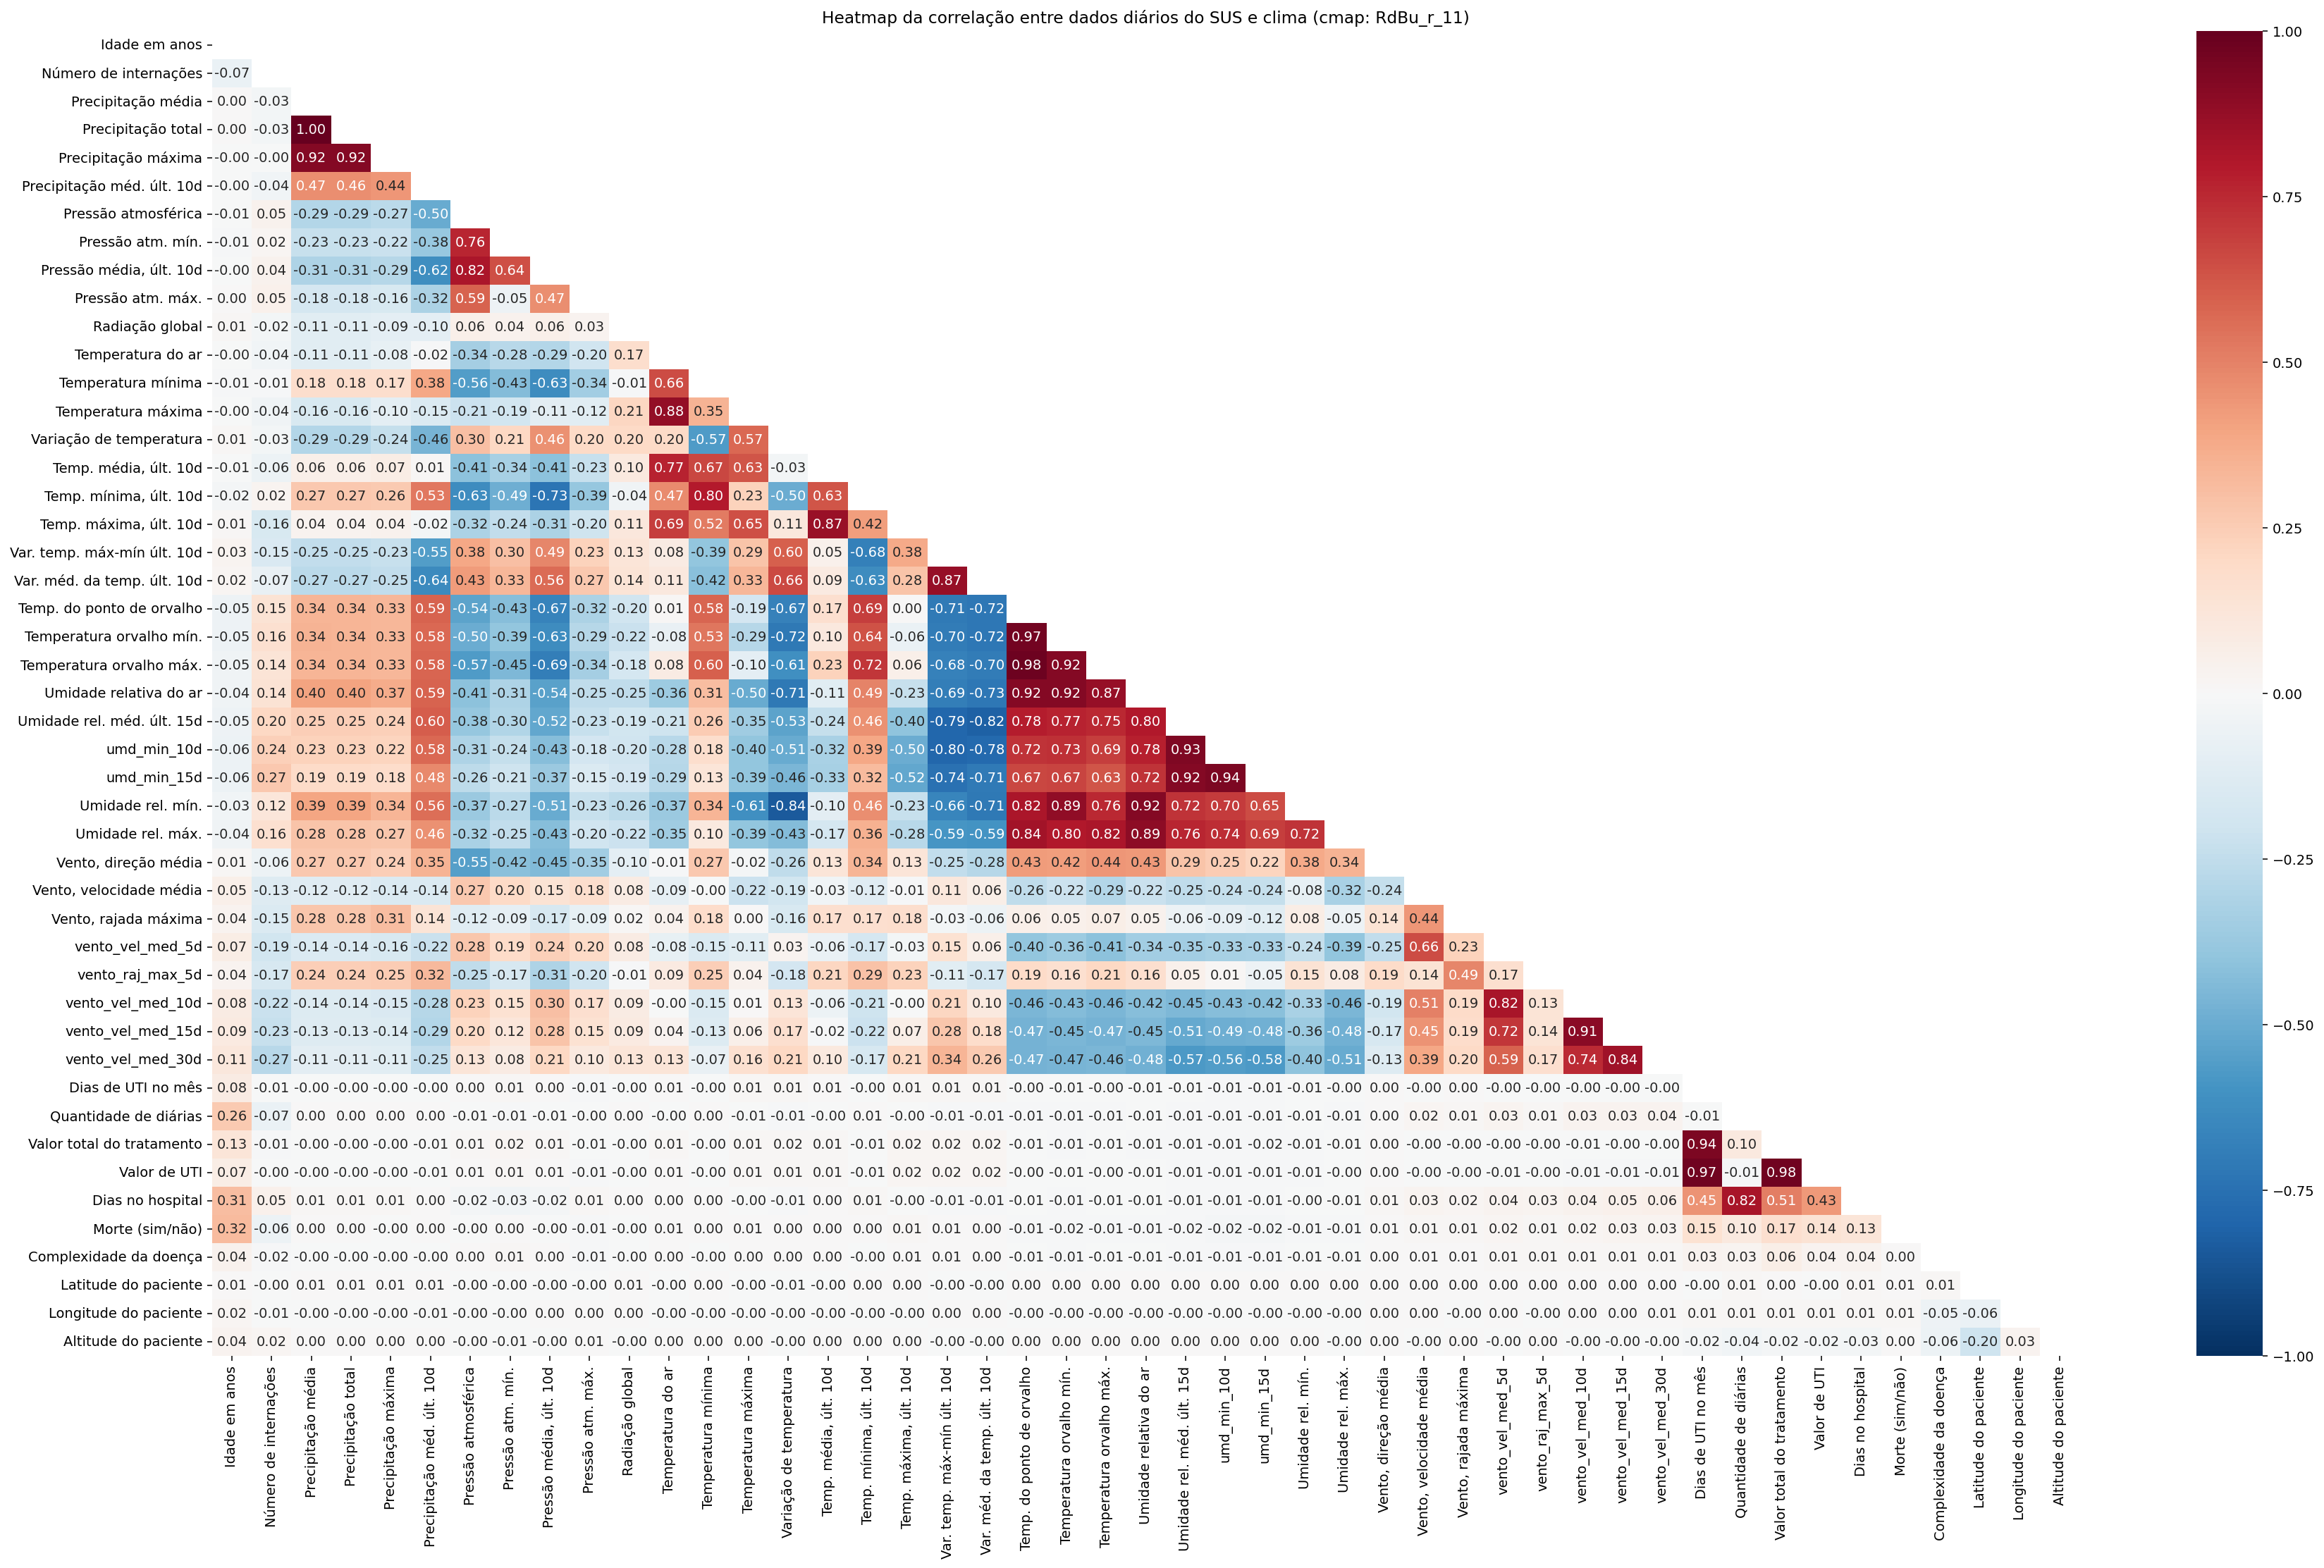
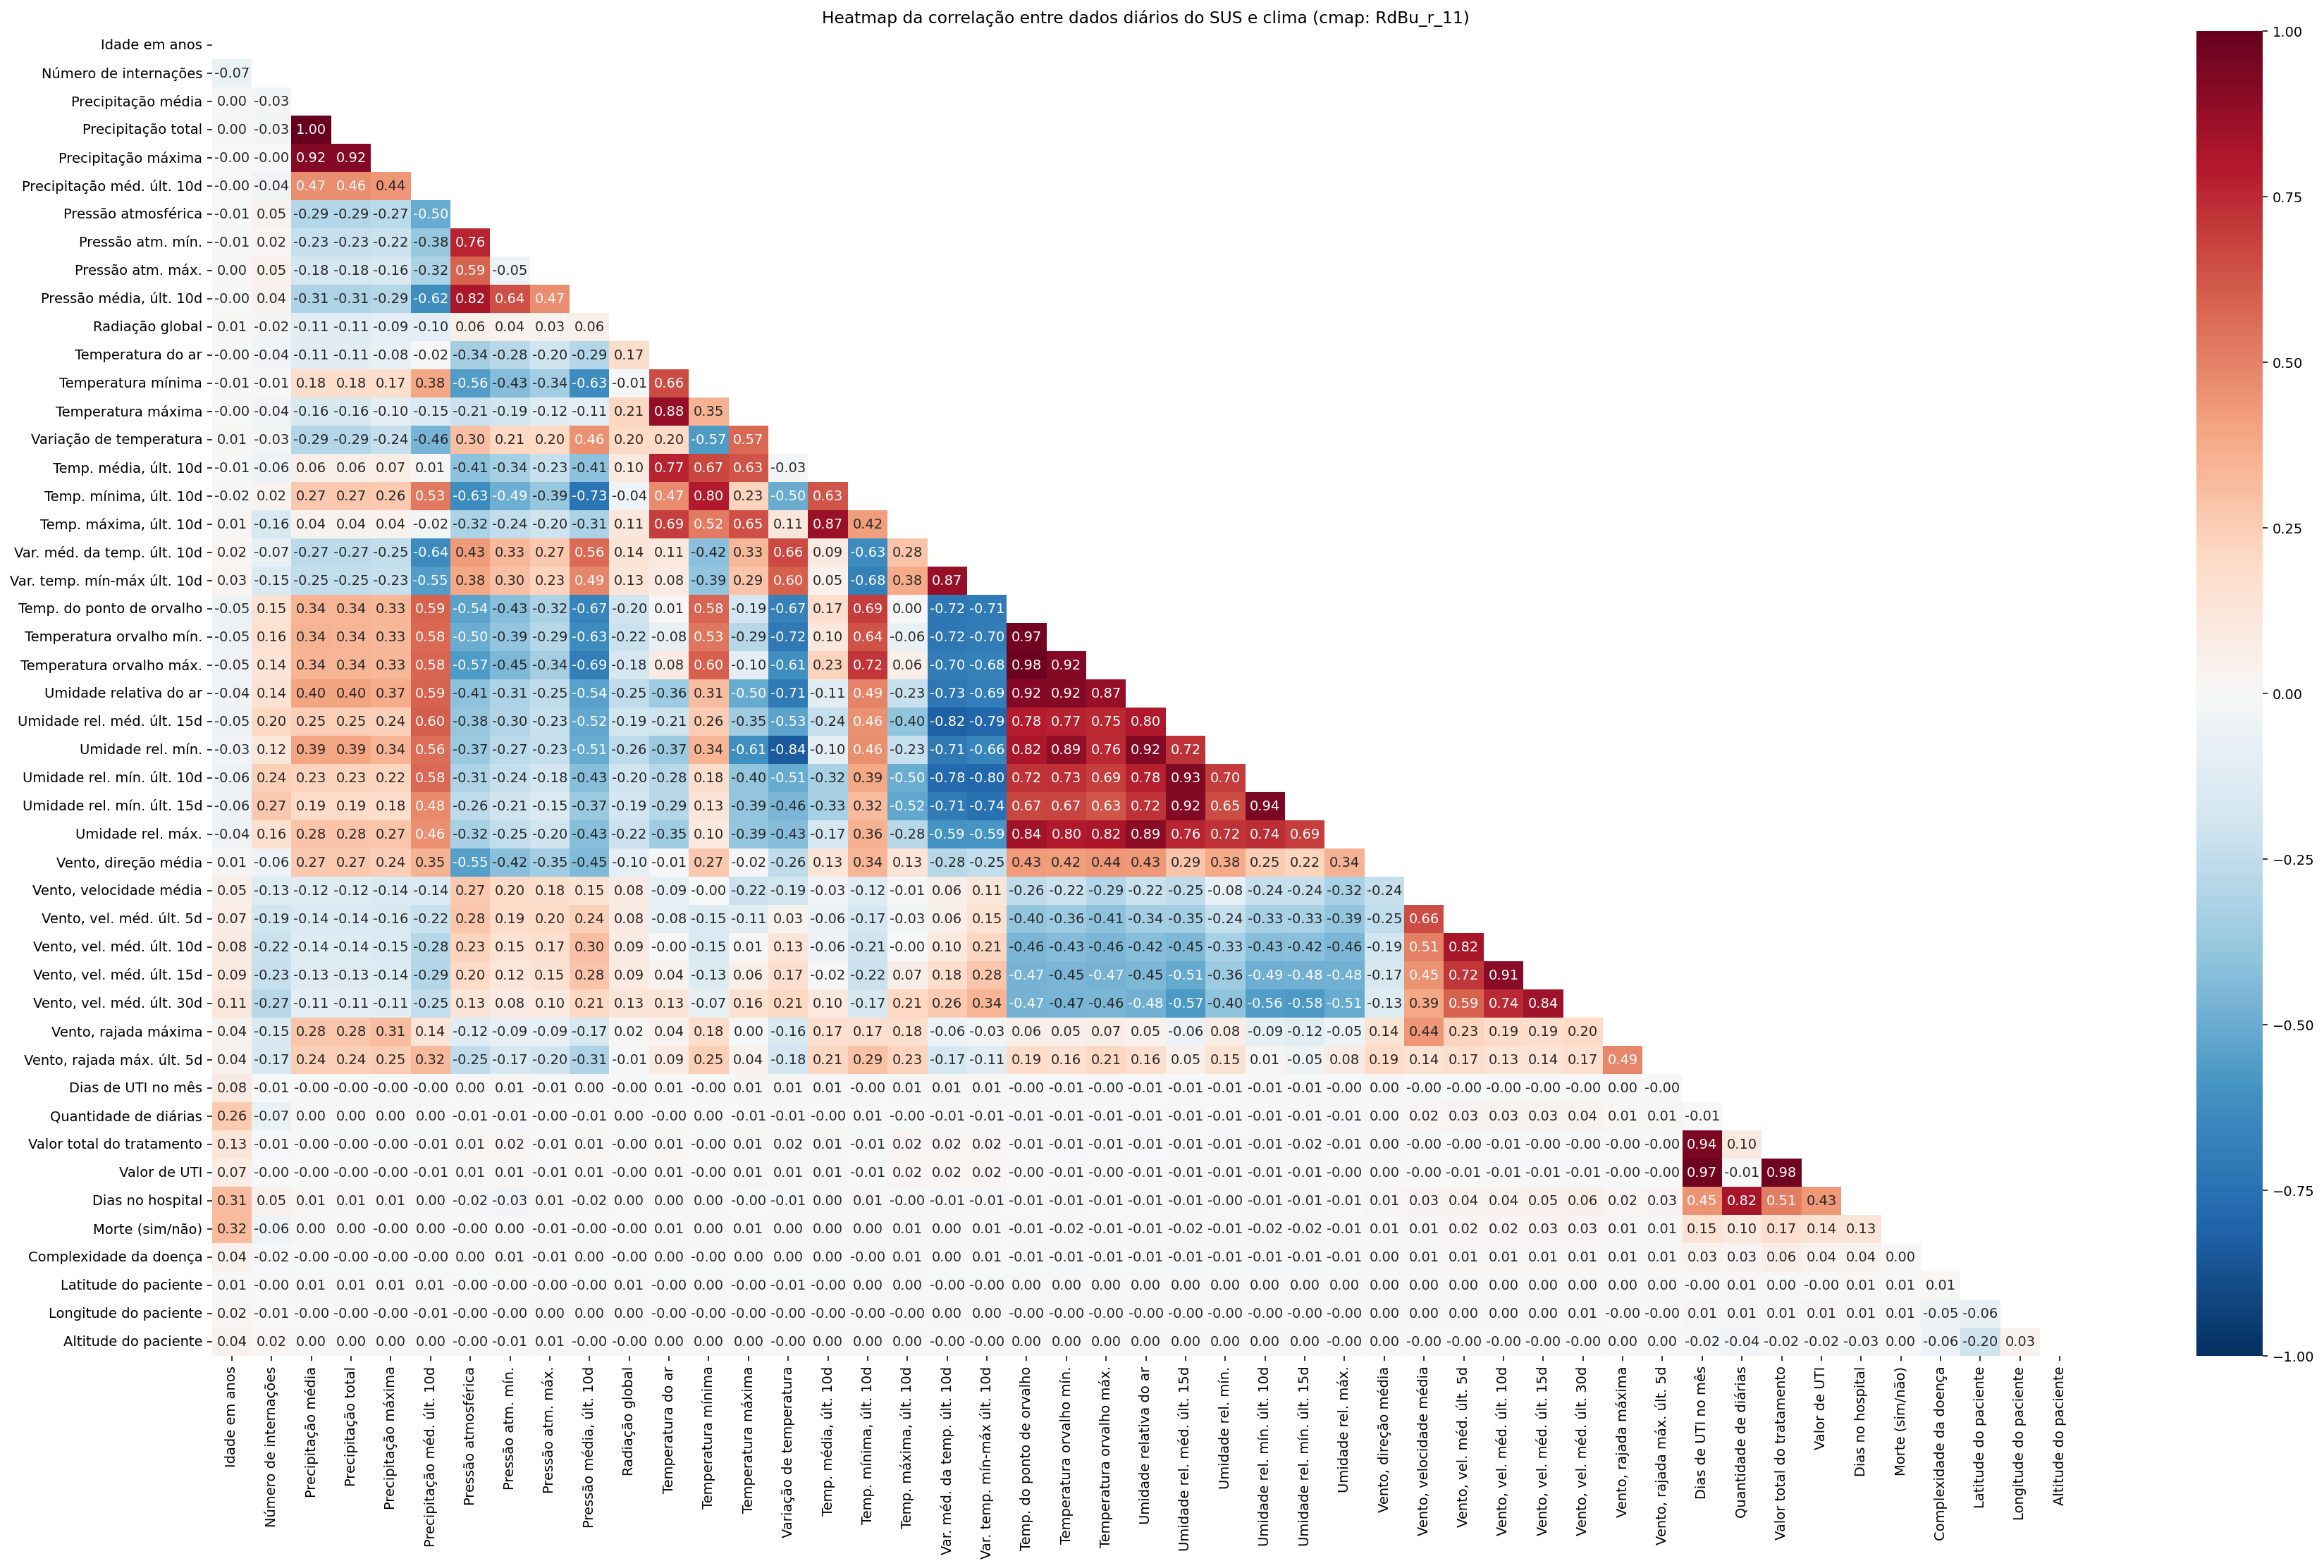
Reorder and give proper names to some created metrics

diff --git a/xgboost-predict.py b/xgboost-predict.py
@@ -84,31 +84,38 @@ renames = {
     'precip_mm':            'Precipitação média',
     'precip_tot_mm':        'Precipitação total',
     'precip_max_mm':        'Precipitação máxima',
+    'precip_med_10d':       'Precipitação méd. últ. 10d',
     'press_nvl_estac_mb':   'Pressão atmosférica',
     'press_max_mb':         'Pressão atm. máx.',
     'press_min_mb':         'Pressão atm. mín.',
+    'press_med_10d':        'Pressão média, últ. 10d',
     'radiac_kjm2':          'Radiação global',
     'temp_seco_c':          'Temperatura do ar',
-    'temp_orv_c':           'Temp. do ponto de orvalho',
-    'temp_max_c':           'Temperatura máxima',
     'temp_min_c':           'Temperatura mínima',
-    'temp_orv_max_c':       'Temperatura orvalho máx.',
-    'temp_orv_min_c':       'Temperatura orvalho mín.',
-    'umd_r_max_pct':        'Umidade rel. máx.',
-    'umd_r_min_pct':        'Umidade rel. mín.',
-    'umd_r_pct':            'Umidade relativa do ar',
-    'vento_dir_gr':         'Vento, direção média',
-    'vento_raj_max_mps':    'Vento, rajada máxima',
-    'vento_vel_mps':        'Vento, velocidade média',
+    'temp_max_c':           'Temperatura máxima',
     'temp_var_c':           'Variação de temperatura',
     'temp_med_10d':         'Temp. média, últ. 10d',
     'temp_min_10d':         'Temp. mínima, últ. 10d',
     'temp_max_10d':         'Temp. máxima, últ. 10d',
-    'temp_var_ext_10d':     'Var. temp. máx-mín últ. 10d',
     'temp_var_med_10d':     'Var. méd. da temp. últ. 10d',
-    'umd_med_10d':          'Umidade rel. méd. últ. 10d',
-    'precip_med_10d':       'Precipitação méd. últ. 10d',
-    'press_med_10d':        'Pressão média, últ. 10d',
+    'temp_var_ext_10d':     'Var. temp. mín-máx últ. 10d',
+    'temp_orv_c':           'Temp. do ponto de orvalho',
+    'temp_orv_min_c':       'Temperatura orvalho mín.',
+    'temp_orv_max_c':       'Temperatura orvalho máx.',
+    'umd_r_pct':            'Umidade relativa do ar',
+    'umd_med_15d':          'Umidade rel. méd. últ. 15d',
+    'umd_r_min_pct':        'Umidade rel. mín.',
+    'umd_min_10d':          'Umidade rel. mín. últ. 10d',
+    'umd_min_15d':          'Umidade rel. mín. últ. 15d',
+    'umd_r_max_pct':        'Umidade rel. máx.',
+    'vento_dir_gr':         'Vento, direção média',
+    'vento_vel_mps':        'Vento, velocidade média',
+    'vento_vel_med_5d':     'Vento, vel. méd. últ. 5d',
+    'vento_vel_med_10d':    'Vento, vel. méd. últ. 10d',
+    'vento_vel_med_15d':    'Vento, vel. méd. últ. 15d',
+    'vento_vel_med_30d':    'Vento, vel. méd. últ. 30d',
+    'vento_raj_max_mps':    'Vento, rajada máxima',
+    'vento_raj_max_5d':     'Vento, rajada máx. últ. 5d',
     'UTI_MES_TO':           'Dias de UTI no mês',
     'QT_DIARIAS':           'Quantidade de diárias',
     'VAL_TOT':              'Valor total do tratamento',
@@ -141,8 +148,8 @@ print(f"Features usadas ({len(feature_cols)}): {feature_cols}")
 # Lag features (for better time-series performance)
 merged_df = merged_df.sort_values('data')
 for lag in [1, 3, 7]:
-    merged_df[f'n_internacoes_lag_{lag}'] = merged_df['cases'].shift(lag)
-    merged_df[f'temp_lag_{lag}'] = merged_df[renames['temp_seco_c']].shift(lag)
+    merged_df[f'Nr de Internações (Lag {lag})'] = merged_df['cases'].shift(lag)
+    merged_df[f'Temperatura do ar (Lag {lag})'] = merged_df[renames['temp_seco_c']].shift(lag)
 
 # Drop rows with NaN from lags (first few days)
 merged_df = merged_df.dropna().reset_index(drop=True)

diff --git a/join-plot-graphs.py b/join-plot-graphs.py
@@ -100,31 +100,38 @@ renames = {
     'precip_mm':            'Precipitação média',
     'precip_tot_mm':        'Precipitação total',
     'precip_max_mm':        'Precipitação máxima',
+    'precip_med_10d':       'Precipitação méd. últ. 10d',
     'press_nvl_estac_mb':   'Pressão atmosférica',
     'press_max_mb':         'Pressão atm. máx.',
     'press_min_mb':         'Pressão atm. mín.',
+    'press_med_10d':        'Pressão média, últ. 10d',
     'radiac_kjm2':          'Radiação global',
     'temp_seco_c':          'Temperatura do ar',
-    'temp_orv_c':           'Temp. do ponto de orvalho',
-    'temp_max_c':           'Temperatura máxima',
     'temp_min_c':           'Temperatura mínima',
-    'temp_orv_max_c':       'Temperatura orvalho máx.',
-    'temp_orv_min_c':       'Temperatura orvalho mín.',
-    'umd_r_max_pct':        'Umidade rel. máx.',
-    'umd_r_min_pct':        'Umidade rel. mín.',
-    'umd_r_pct':            'Umidade relativa do ar',
-    'vento_dir_gr':         'Vento, direção média',
-    'vento_raj_max_mps':    'Vento, rajada máxima',
-    'vento_vel_mps':        'Vento, velocidade média',
+    'temp_max_c':           'Temperatura máxima',
     'temp_var_c':           'Variação de temperatura',
     'temp_med_10d':         'Temp. média, últ. 10d',
     'temp_min_10d':         'Temp. mínima, últ. 10d',
     'temp_max_10d':         'Temp. máxima, últ. 10d',
-    'temp_var_ext_10d':     'Var. temp. máx-mín últ. 10d',
     'temp_var_med_10d':     'Var. méd. da temp. últ. 10d',
+    'temp_var_ext_10d':     'Var. temp. mín-máx últ. 10d',
+    'temp_orv_c':           'Temp. do ponto de orvalho',
+    'temp_orv_min_c':       'Temperatura orvalho mín.',
+    'temp_orv_max_c':       'Temperatura orvalho máx.',
+    'umd_r_pct':            'Umidade relativa do ar',
     'umd_med_15d':          'Umidade rel. méd. últ. 15d',
-    'precip_med_10d':       'Precipitação méd. últ. 10d',
-    'press_med_10d':        'Pressão média, últ. 10d',
+    'umd_r_min_pct':        'Umidade rel. mín.',
+    'umd_min_10d':          'Umidade rel. mín. últ. 10d',
+    'umd_min_15d':          'Umidade rel. mín. últ. 15d',
+    'umd_r_max_pct':        'Umidade rel. máx.',
+    'vento_dir_gr':         'Vento, direção média',
+    'vento_vel_mps':        'Vento, velocidade média',
+    'vento_vel_med_5d':     'Vento, vel. méd. últ. 5d',
+    'vento_vel_med_10d':    'Vento, vel. méd. últ. 10d',
+    'vento_vel_med_15d':    'Vento, vel. méd. últ. 15d',
+    'vento_vel_med_30d':    'Vento, vel. méd. últ. 30d',
+    'vento_raj_max_mps':    'Vento, rajada máxima',
+    'vento_raj_max_5d':     'Vento, rajada máx. últ. 5d',
     'UTI_MES_TO':           'Dias de UTI no mês',
     'QT_DIARIAS':           'Quantidade de diárias',
     'VAL_TOT':              'Valor total do tratamento',

diff --git a/treat-weather-data.py b/treat-weather-data.py
@@ -180,23 +180,23 @@ avg_wind_last_30 = rolling_avg(df_daily, 'vento_vel_mps', 30)
 df_daily.insert(temp_max_idx + 2, 'temp_med_10d', avg_temp_last_10)
 df_daily.insert(temp_max_idx + 3, 'temp_min_10d', min_temp_last_10)
 df_daily.insert(temp_max_idx + 4, 'temp_max_10d', max_temp_last_10)
-df_daily.insert(temp_max_idx + 5, 'temp_var_ext_10d', xtr_temp_var_last_10)
-df_daily.insert(temp_max_idx + 6, 'temp_var_med_10d', avg_temp_var_last_10)
+df_daily.insert(temp_max_idx + 5, 'temp_var_med_10d', avg_temp_var_last_10)
+df_daily.insert(temp_max_idx + 6, 'temp_var_ext_10d', xtr_temp_var_last_10)
 # df_daily.insert(df_daily.columns.get_loc('umd_r_pct') + 1, 'umd_med_5d', avg_hum_last_5)
 # df_daily.insert(df_daily.columns.get_loc('umd_r_pct') + 2, 'umd_med_10d', avg_hum_last_10)
 df_daily.insert(df_daily.columns.get_loc('umd_r_pct') + 1, 'umd_med_15d', avg_hum_last_15)
-df_daily.insert(df_daily.columns.get_loc('umd_r_pct') + 2, 'umd_min_10d', min_hum_last_10)
-df_daily.insert(df_daily.columns.get_loc('umd_r_pct') + 3, 'umd_min_15d', min_hum_last_15)
-# df_daily.insert(df_daily.columns.get_loc('umd_r_pct') + 5, 'umd_max_10d', max_hum_last_10)
+df_daily.insert(df_daily.columns.get_loc('umd_r_min_pct') + 1, 'umd_min_10d', min_hum_last_10)
+df_daily.insert(df_daily.columns.get_loc('umd_r_min_pct') + 2, 'umd_min_15d', min_hum_last_15)
+# df_daily.insert(df_daily.columns.get_loc('umd_r_max_pct') + 5, 'umd_max_10d', max_hum_last_10)
 df_daily.insert(df_daily.columns.get_loc('precip_max_mm') + 1, 'precip_med_10d', avg_prec_last_10)
-df_daily.insert(df_daily.columns.get_loc('press_min_mb') + 1, 'press_med_10d', avg_press_last_10)
-df_daily.insert(df_daily.columns.get_loc('vento_raj_max_mps') + 1, 'vento_vel_med_5d', avg_wind_last_5)
-df_daily.insert(df_daily.columns.get_loc('vento_raj_max_mps') + 2, 'vento_raj_max_5d', max_wind_last_5)
-df_daily.insert(df_daily.columns.get_loc('vento_raj_max_mps') + 3, 'vento_vel_med_10d', avg_wind_last_10)
+df_daily.insert(df_daily.columns.get_loc('press_max_mb') + 1, 'press_med_10d', avg_press_last_10)
+df_daily.insert(df_daily.columns.get_loc('vento_vel_mps') + 1, 'vento_vel_med_5d', avg_wind_last_5)
+df_daily.insert(df_daily.columns.get_loc('vento_vel_mps') + 2, 'vento_vel_med_10d', avg_wind_last_10)
+df_daily.insert(df_daily.columns.get_loc('vento_vel_mps') + 3, 'vento_vel_med_15d', avg_wind_last_15)
+df_daily.insert(df_daily.columns.get_loc('vento_vel_mps') + 4, 'vento_vel_med_30d', avg_wind_last_30)
+df_daily.insert(df_daily.columns.get_loc('vento_raj_max_mps') + 1, 'vento_raj_max_5d', max_wind_last_5)
 # df_daily.insert(df_daily.columns.get_loc('vento_raj_max_mps') + 4, 'vento_raj_max_10d', max_wind_last_10)
-df_daily.insert(df_daily.columns.get_loc('vento_raj_max_mps') + 4, 'vento_vel_med_15d', avg_wind_last_15)
 # df_daily.insert(df_daily.columns.get_loc('vento_raj_max_mps') + 6, 'vento_raj_max_15d', max_wind_last_15)
-df_daily.insert(df_daily.columns.get_loc('vento_raj_max_mps') + 5, 'vento_vel_med_30d', avg_wind_last_30)
 # df_daily.insert(df_daily.columns.get_loc('vento_raj_max_mps') + 8, 'vento_raj_max_30d', max_wind_last_30)
 
 # Restore old naming scheme if requested